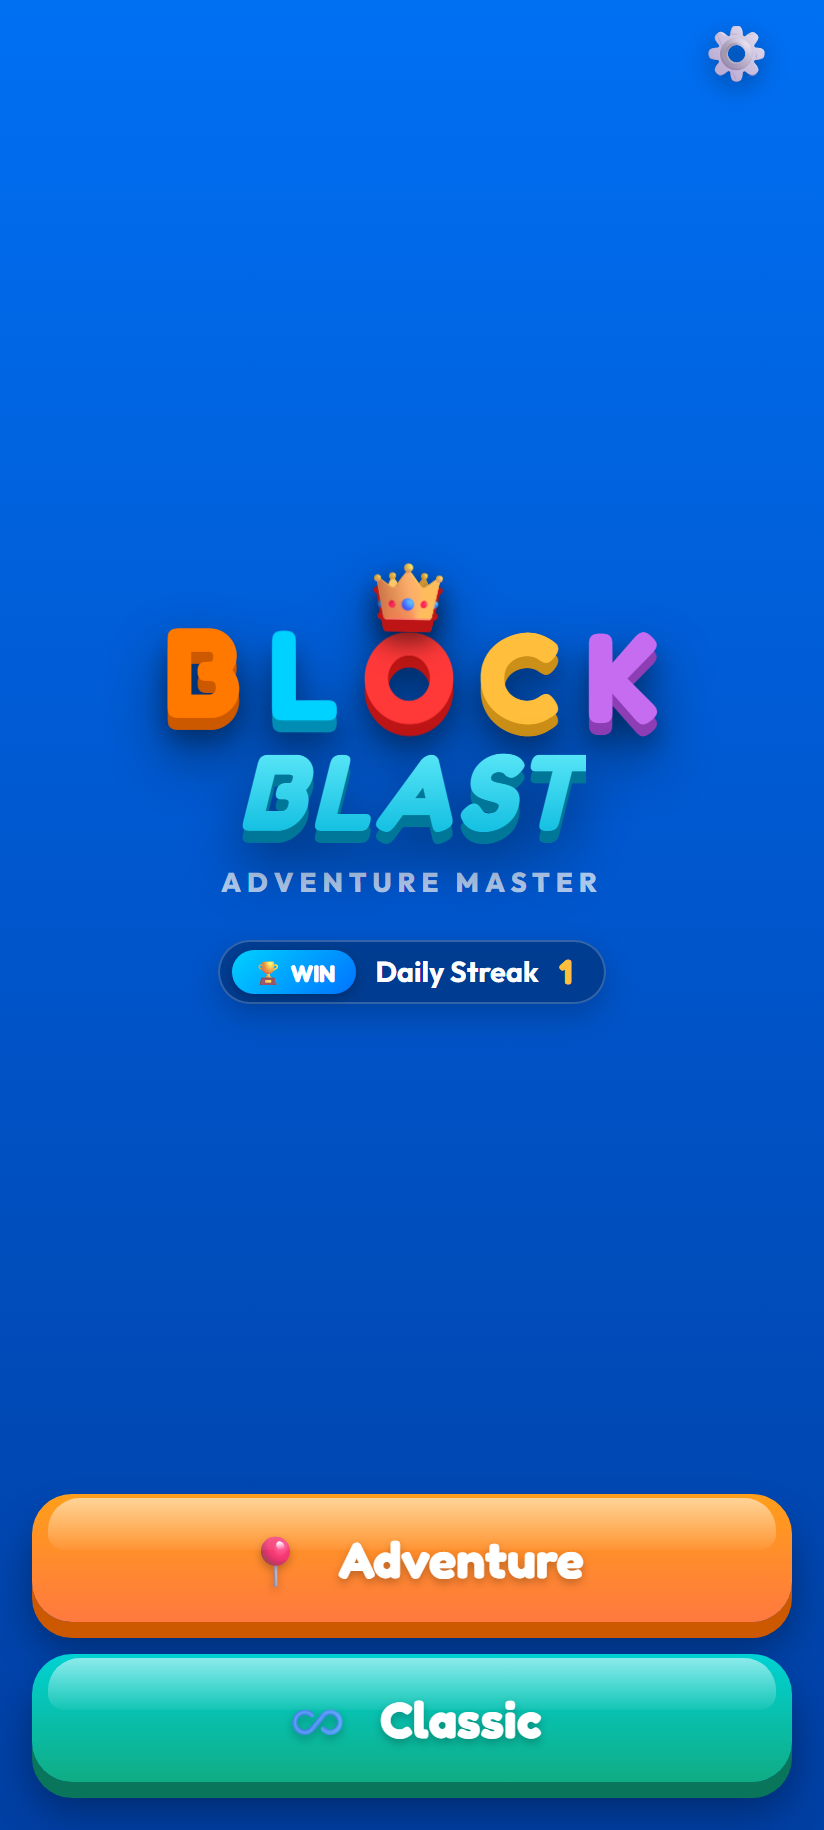
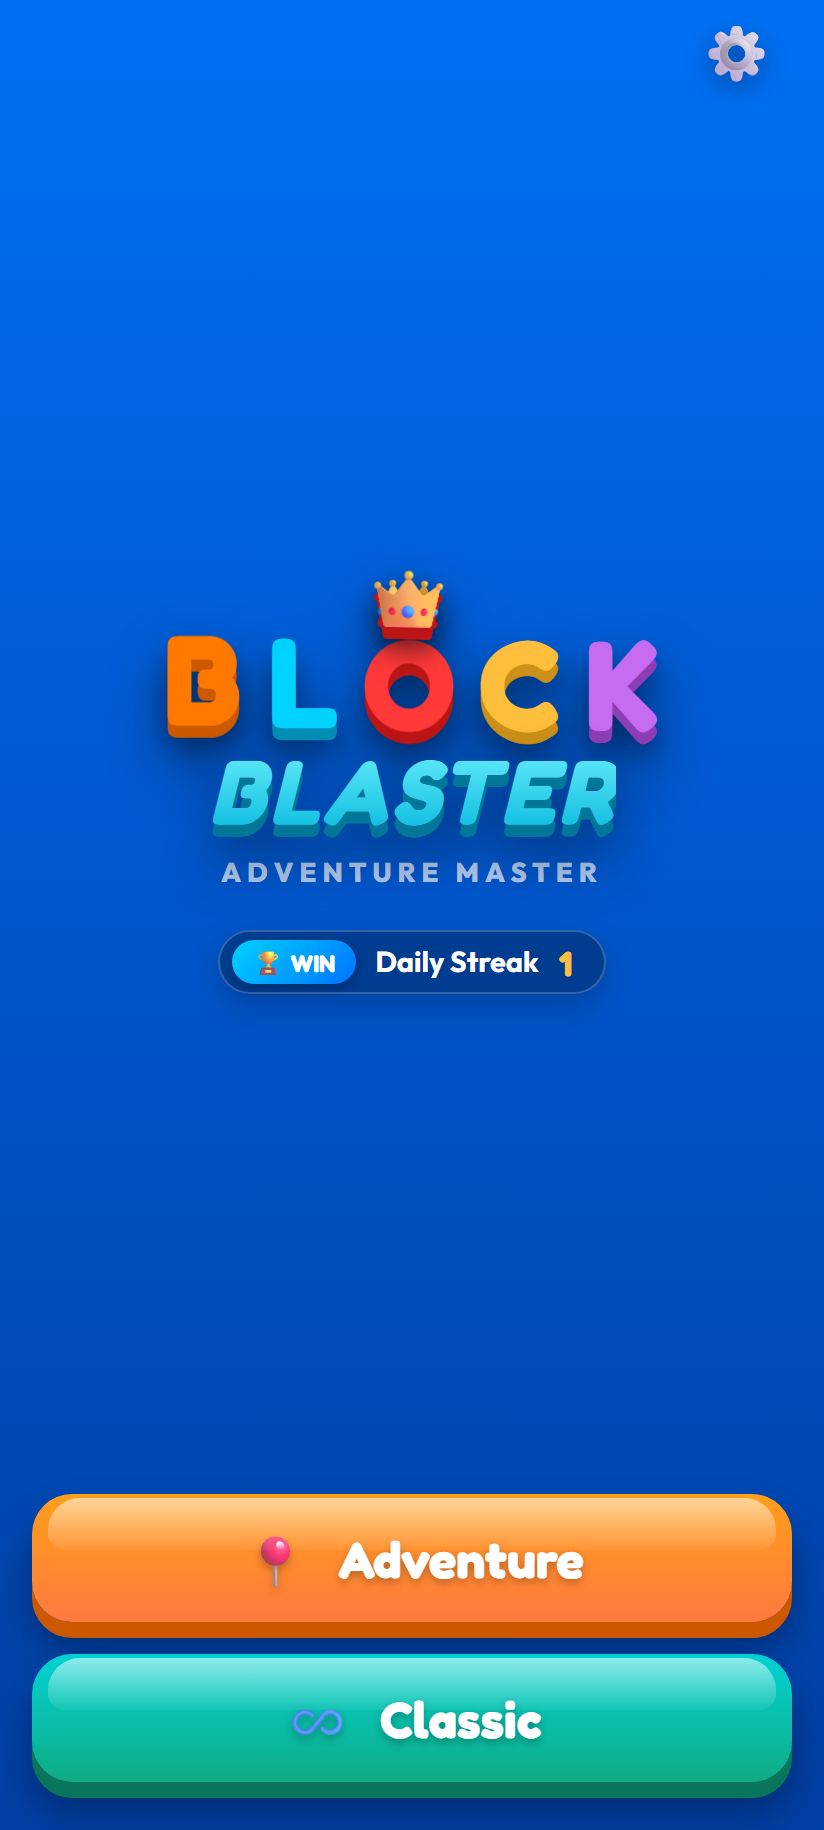
feat: complete Loading, Homepage, Adventure mode with 500 levels/5 trophies, candy textures, dynamic theme change and death highscore

Changed region(s): [[0.2124, 0.3115, 0.8192, 0.5607]]

diff --git a/index.html b/index.html
@@ -31,7 +31,7 @@
               <span class="bubble-letter letter-c">C</span>
               <span class="bubble-letter letter-k">K</span>
             </div>
-            <div class="bubble-word blast-word">BLAST</div>
+            <div class="bubble-word blast-word">BLASTER</div>
             <div class="logo-subtitle">ADVENTURE MASTER</div>
           </div>
 
@@ -66,7 +66,7 @@
               <span class="bubble-letter letter-c">C</span>
               <span class="bubble-letter letter-k">K</span>
             </div>
-            <div class="bubble-word blast-word">BLAST</div>
+            <div class="bubble-word blast-word">BLASTER</div>
             <div class="logo-subtitle">ADVENTURE MASTER</div>
           </div>
 

diff --git a/src/style.css b/src/style.css
@@ -212,16 +212,16 @@ body {
 
 .blast-word {
   font-family: var(--font-display);
-  font-size: 3.4rem;
+  font-size: 2.85rem;
   font-weight: 900;
   font-style: italic;
-  letter-spacing: 2px;
+  letter-spacing: 1.5px;
   color: #38ef7d;
   background: linear-gradient(180deg, #70f3ff 0%, #00b4db 100%);
   -webkit-background-clip: text;
   -webkit-text-fill-color: transparent;
   filter: drop-shadow(0 6px 0 #007799) drop-shadow(0 12px 14px rgba(0,0,0,0.4));
-  margin-top: -8px;
+  margin-top: -6px;
 }
 
 .logo-subtitle {

diff --git a/tests/game.spec.js b/tests/game.spec.js
@@ -17,7 +17,7 @@ test.describe('Block Blaster Full Feature Verification', () => {
 
     const blastWord = page.locator('.home-hero .blast-word');
     await expect(blastWord).toBeVisible();
-    await expect(blastWord).toHaveText('BLAST');
+    await expect(blastWord).toHaveText('BLASTER');
 
     // Check Crown icon on O
     const crown = page.locator('.home-hero .crown-icon');
